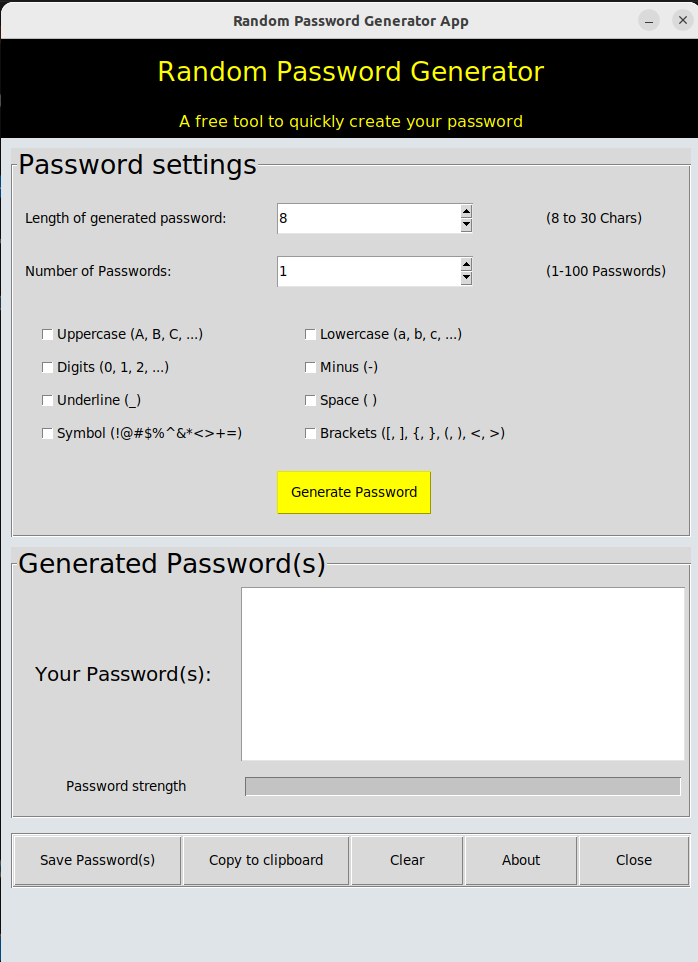
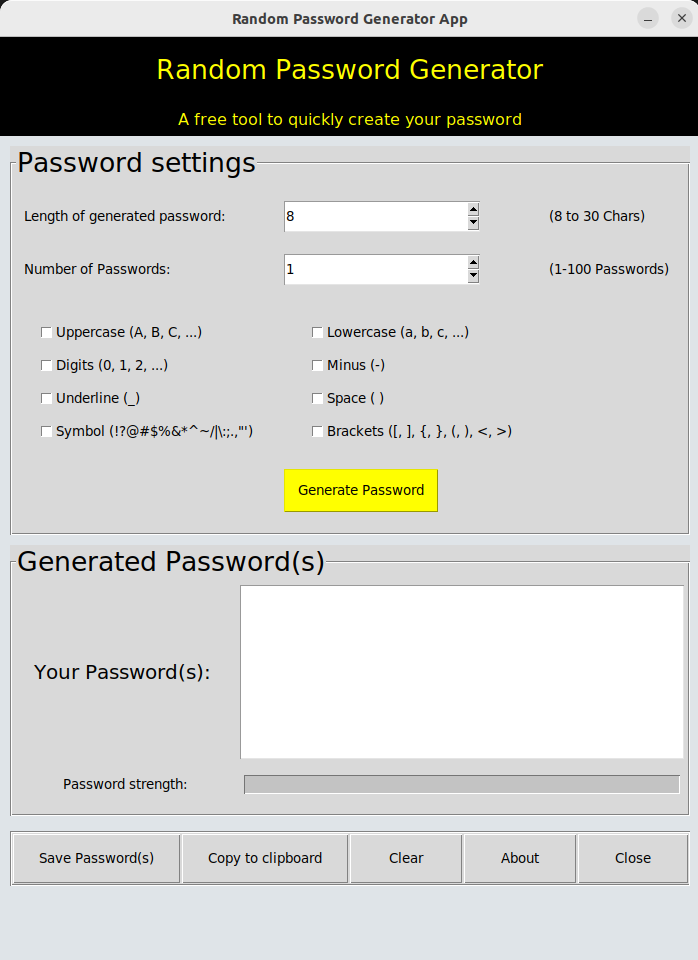
docs: finalize README file

diff --git a/random_password_generator_GUI.py b/random_password_generator_GUI.py
@@ -126,7 +126,7 @@ label_about.grid(row=9, column=0, columnspan=3, )
 label_password_strength = tk.Label(
     master=labelframe_generated_password,
     font=('Noto Sans', 10), 
-    text='Password strength',
+    text='Password strength:',
 )
 label_password_strength.grid(row=1, column=0, )
 
@@ -150,9 +150,11 @@ checkbox_options = {
     'Minus (-)': tk.BooleanVar(),
     'Underline (_)': tk.BooleanVar(),
     'Space ( )': tk.BooleanVar(),
-    'Symbol (!@#$%^&*<>+=)': tk.BooleanVar(),
+    "Symbol (!?@#$%&*^~/|\:;.,\"\')": tk.BooleanVar(),
     'Brackets ([, ], {, }, (, ), <, >)': tk.BooleanVar()
 }
+
+
 for index, (text, var) in enumerate(checkbox_options.items()):
     row = index // 2
     col = index % 2
@@ -194,7 +196,7 @@ def clear_funt():
 def about_func():
     text = """The Random Password Generator enables you to generate secure and highly
     unpredictable passwords through an optional mix of lowercase and uppercase letters,
-    numbers, and special characters."""
+    numbers and special characters."""
     label_about['text'] = text
 
 
@@ -253,7 +255,6 @@ button_close.grid(row=0, column=4, ipadx=23, ipady=10)
 # ProgressBar
 progressbar_generated_password = ttk.Progressbar(
     master=labelframe_generated_password,
-
 )
 progressbar_generated_password.grid(row=1, column=1, padx=5, pady=10, sticky='SNEW') 
 

diff --git a/README.md b/README.md
@@ -2,13 +2,11 @@
 <h1 align='center'> Random Password Generator - Python Tkinter </h1>
 
 <p align='center'>
-
 <img src="https://img.shields.io/badge/Language-Python-blue" />
 <img src="https://img.shields.io/badge/Interface-GUI-orange" />
 <img src="https://img.shields.io/badge/Built%20With-Tkinter-brightgreen" />
 <img src="https://img.shields.io/badge/Built%20With-Tkinter-blueviolet" />
 <img src="https://img.shields.io/badge/License-MIT-yellow" />
-
 </p>
 
 
@@ -30,6 +28,8 @@
 
 
 ## 📝 Discription
+
+A Python GUI tool to generate strong and highly unpredictable passwords in a few clicks. You can choose what kinds of characters to include, from letters to symbols, for more secure passwords.
 
 
 ## 🚀 Installation
@@ -62,6 +62,40 @@ python random_password_generator_GUI.py
 
 
 ## ✨ Features
+This app offers the following customizable options for generating passwords:
+
+    ✅ Lowercase letters (a, b, c, ...)
+
+    ✅ Uppercase letters (A, B, C, ...)
+
+    ✅ Digits (0, 1, 2, ...)
+
+    ✅ Minus sign (-)
+
+    ✅ Underline (_)
+
+    ✅ Spaces ( )
+
+    ✅ Symbols (!?@#$%&*^~/\|+=:;.,\"\')
+
+    ✅ Brackets ([, ], {, }, (, ), <, >)
+
+Additional features:
+
+    🎯 Generate 1–100 passwords at a time
+
+    🔒 Define password length (8–30 characters)
+
+    📋 Copy passwords to clipboard
+
+    💾 Save passwords
+
+    🗑 Clear generated passwords
+
+    ❌ Exit the app easily
+
+    ℹ About section for information
+    
 
 ## 📸 Screenshots
 
